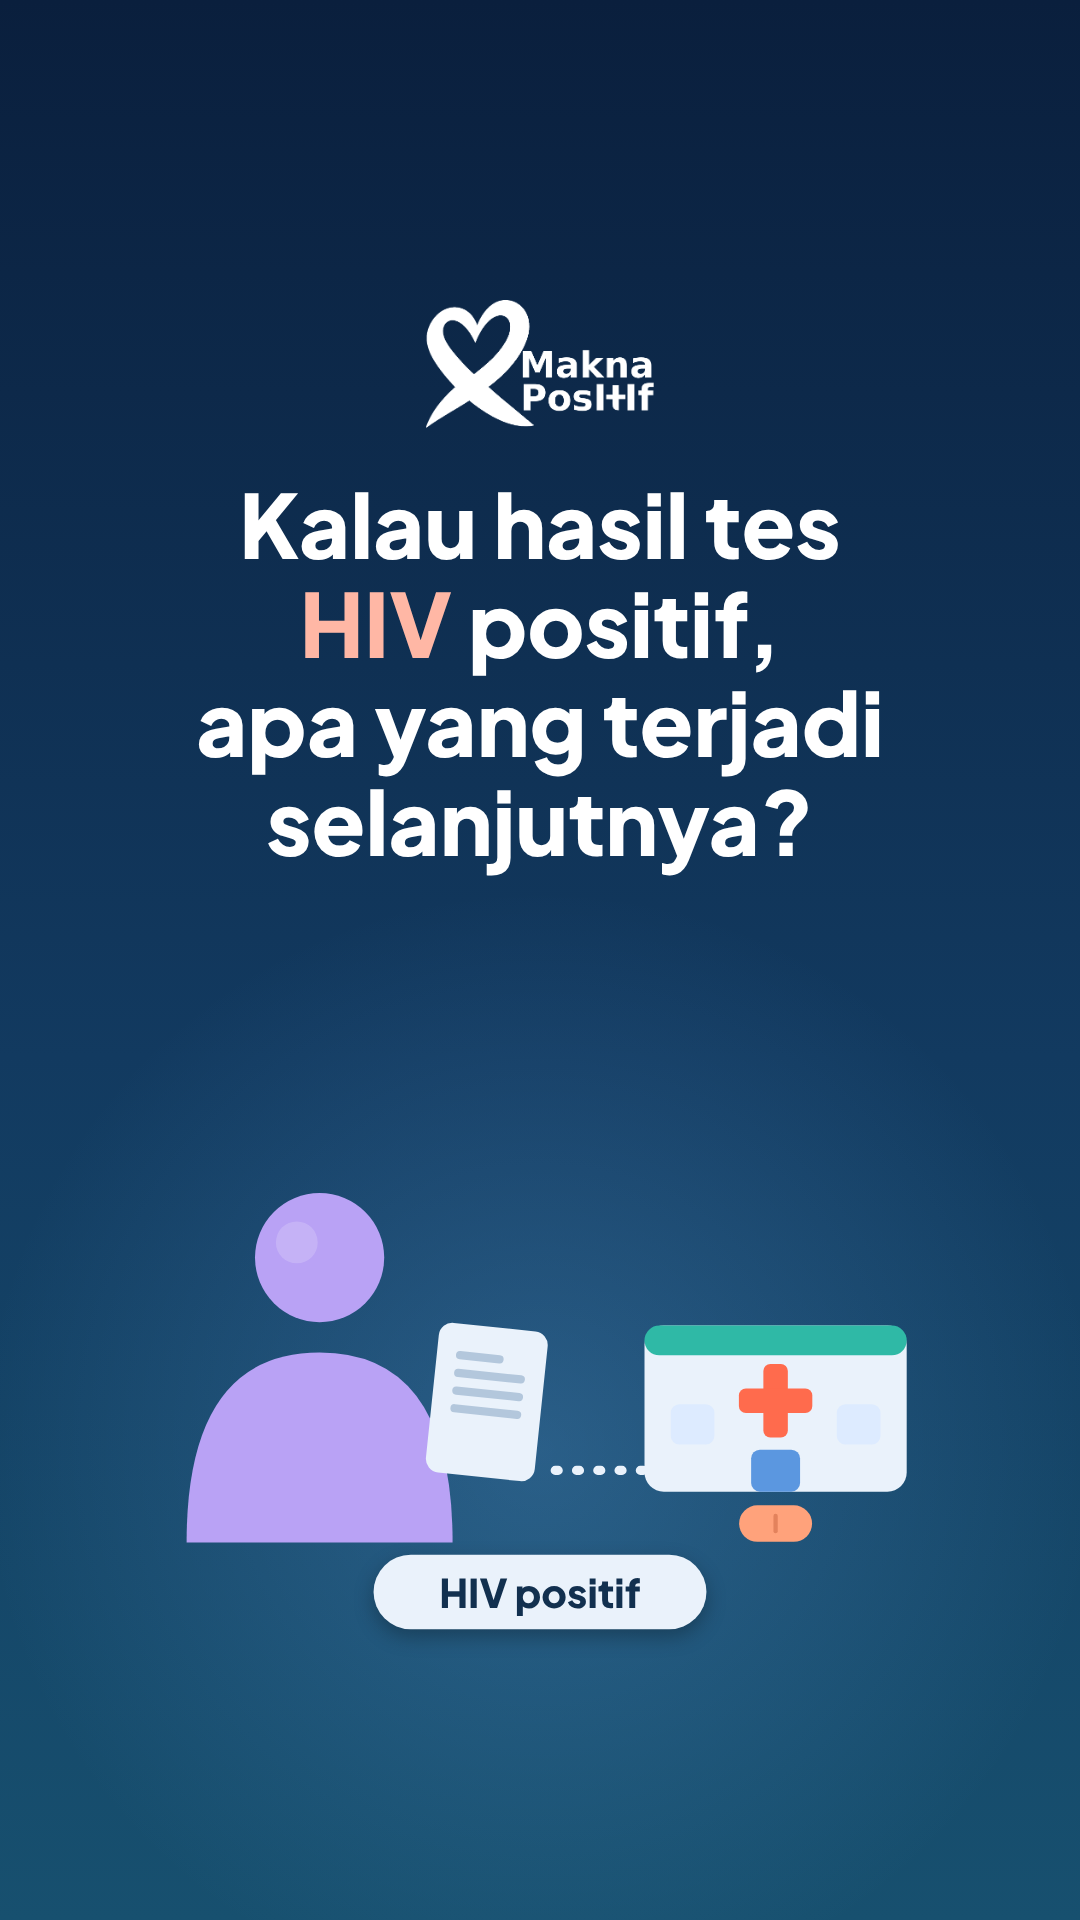
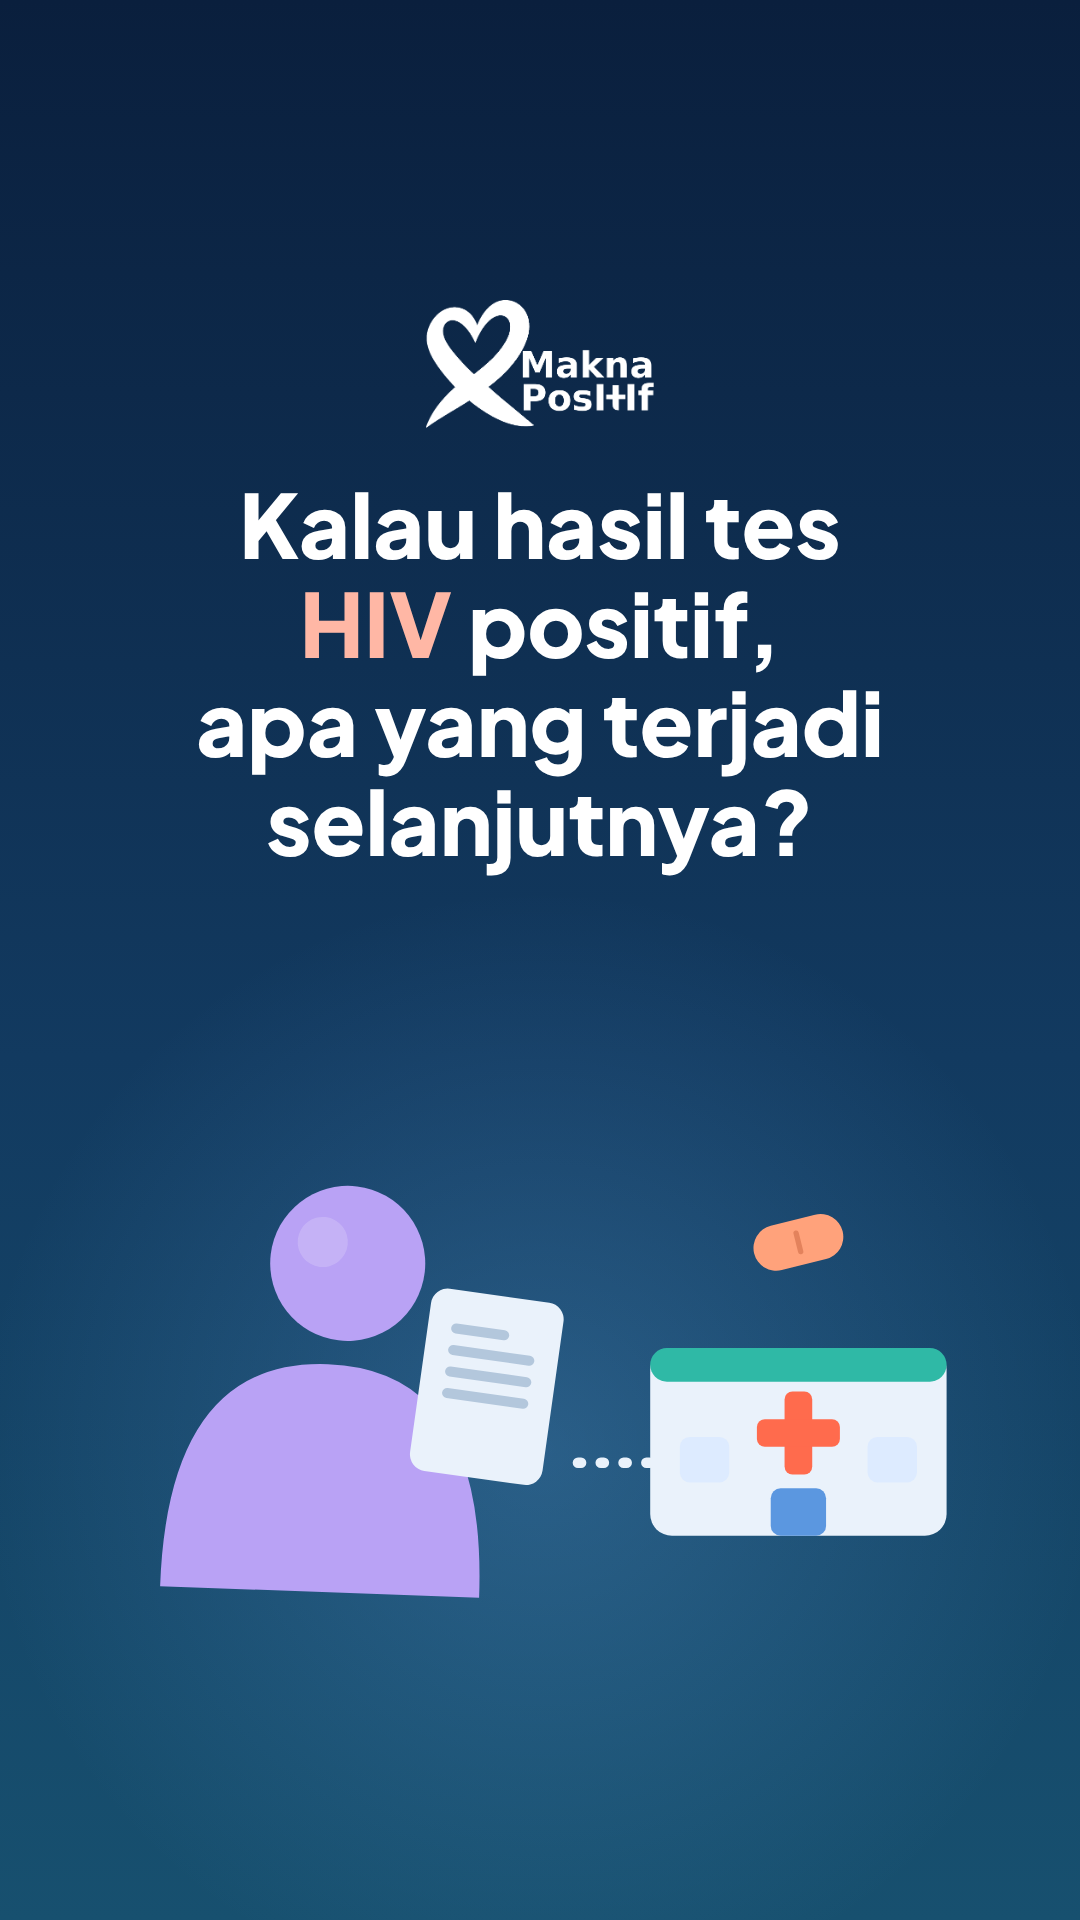
S2E2: revisi visual (adegan 7, 9, 12, pose, thumbnail)

Changed region(s): [[0.1528, 0.5938, 0.8861, 0.875], [0.1833, 0.7188, 0.2139, 0.75]]

diff --git a/src/s2e2/S2E2.tsx b/src/s2e2/S2E2.tsx
@@ -173,7 +173,9 @@ const pr = (t: number, a: number, b: number, e: (x: number) => number = out3) =>
 const SceneWrap: React.FC<{ i: number; t: number; children: React.ReactNode }> = ({ i, t, children }) => {
   const o = win(t, SCENE_T[i], SCENE_T[i + 1] + 0.25, 0.45);
   if (o < 0.005) return null;
-  return <g opacity={o}>{children}</g>;
+  const k = Math.max(0, Math.min(1, (t - SCENE_T[i]) / (SCENE_T[i + 1] - SCENE_T[i])));
+  const z = 1 + 0.04 * k;
+  return <g opacity={o} transform={`translate(540 960) scale(${z}) translate(-540 -960)`}>{children}</g>;
 };
 
 // ---- Adegan 1 (kalimat 1-3): kertas hasil tes sampai ke "kamu" (positif HIV); pertanyaan bermunculan; lalu jalur ke klinik tergambar (yang biasanya terjadi)
@@ -187,7 +189,7 @@ const Scene1: React.FC<{ t: number }> = ({ t }) => {
   const cl = pr(t, s3 + 1.0, s3 + 1.6, back);
   return (
     <>
-      <L.Person cx={360} cy={1010} s={2.2 * me} op={me} color={KAMU} />
+      <L.PersonPose cx={360} cy={1010} s={2.3 * me} op={me} color={KAMU} bow={pr(t, 0.9, 1.8, sine) - 1.6 * pr(t, s3 + 0.3, s3 + 1.3, sine)} />
       <L.Document cx={lerp(1000, 580, doc)} cy={lerp(760, 1030, doc)} s={0.95 * me} op={me} rot={lerp(-14, 6, doc)} />
       <L.SpeechBubble cx={700} cy={700} s={0.95 * bub} op={bub} text="positif HIV" w={400} tail="l" />
       {[[250, 700, 'l'], [440, 610, 'r'], [610, 720, 'r']].map(([x, y, tl], i) => (
@@ -264,10 +266,10 @@ const Scene4: React.FC<{ t: number }> = ({ t }) => {
   const vx = lerp(540, 330, pr(t, c1 - 0.2, c1 + 0.5, sine));
   return (
     <>
-      <Virus x={vx} y={960} r={140 * v * shrink} dim={dim} t={t} />
-      <L.Tablet cx={lerp(960, 640, tb)} cy={lerp(760, 940, tb)} s={1.0} rot={lerp(-35, 0, tb)} op={pr(t, s6 + 0.3, s6 + 0.6) * (1 - pr(t, s6 + 1.9, s6 + 2.3))} />
-      <circle cx={740} cy={960} r={86} fill="none" stroke="#EAF2FB" strokeWidth={10} strokeDasharray="14 18" strokeLinecap="round" opacity={0.8 * ghost} />
-      <L.CrossBadge cx={740} cy={960} s={0.8 * cross} op={cross} />
+      <Virus x={vx} y={1010} r={140 * v * shrink} dim={dim} t={t} />
+      <L.Tablet cx={lerp(980, 660, tb)} cy={lerp(700, 800, tb)} s={1.1} rot={lerp(-35, -18, tb)} op={pr(t, s6 + 0.3, s6 + 0.6) * (1 - pr(t, s6 + 1.4, s6 + 1.8))} />
+      <circle cx={740} cy={1010} r={86} fill="none" stroke="#EAF2FB" strokeWidth={10} strokeDasharray="14 18" strokeLinecap="round" opacity={0.8 * ghost} />
+      <L.CrossBadge cx={740} cy={1010} s={0.8 * cross} op={cross} />
     </>
   );
 };
@@ -303,39 +305,46 @@ const Scene6: React.FC<{ t: number }> = ({ t }) => {
   const hold = pr(t, c2 + 0.2, c2 + 0.8);
   return (
     <>
-      <L.Blister cx={330} cy={950} s={1.5 * bl} op={bl} taken={taken} />
-      <L.BloodTube cx={780} cy={980} s={1.3 * tube} op={tube} level={0.12} />
-      <L.CheckBadge cx={780} cy={1230} s={0.7 * ok} op={ok} />
-      <L.Person cx={230} cy={1000} s={2.0 * pA} op={pA} color={KAMU} />
-      <Virus x={280} y={1060} r={26 * pA} t={t} />
-      <L.Person cx={850} cy={1000} s={2.0 * pB} op={pB} color={PAS} />
-      <line x1={400} y1={900} x2={lerp(400, 680, arrow)} y2={900} stroke="#EAF2FB" strokeWidth={14} strokeLinecap="round" strokeDasharray="6 22" opacity={0.85 * arrow * (1 - 0.5 * hold)} />
-      <L.CrossBadge cx={540} cy={900} s={0.9 * cross} op={cross} />
-      <L.Blister cx={540} cy={1190} s={0.85 * bl2} op={bl2} taken={taken2} />
+      <L.Blister cx={310} cy={880} s={1.5 * bl} op={bl} taken={taken} />
+      <L.BloodTube cx={780} cy={900} s={1.3 * tube} op={tube} level={0.12} />
+      <L.CheckBadge cx={780} cy={1160} s={0.7 * ok} op={ok} />
+      <L.Person cx={230} cy={960} s={2.0 * pA} op={pA} color={KAMU} />
+      <Virus x={280} y={1020} r={26 * pA} t={t} />
+      <L.Person cx={850} cy={960} s={2.0 * pB} op={pB} color={PAS} />
+      <line x1={400} y1={860} x2={lerp(400, 680, arrow)} y2={860} stroke="#EAF2FB" strokeWidth={14} strokeLinecap="round" strokeDasharray="6 22" opacity={0.85 * arrow * (1 - 0.5 * hold)} />
+      <L.CrossBadge cx={540} cy={860} s={0.9 * cross} op={cross} />
+      <L.Blister cx={540} cy={1170} s={0.75 * bl2} op={bl2} taken={taken2} />
     </>
   );
 };
 
-// ---- Adegan 7 (kalimat 9): U sama dengan U (tidak terdeteksi = tidak menularkan)
+// ---- Adegan 7 (kalimat 9): U sama dengan U. Kiri: viral load tidak terdeteksi (tabung darah hampir kosong); kanan: pasangan terlindung (tidak tertular)
 const Scene7: React.FC<{ t: number }> = ({ t }) => {
   const s9 = T(9);
-  const u1 = pr(t, s9, s9 + 0.6, back);
-  const eq = pr(t, s9 + 0.8, s9 + 1.3, back);
-  const u2 = pr(t, s9 + 1.2, s9 + 1.8, back);
+  const u1 = pr(t, s9, s9 + 0.5, back);
+  const tube = pr(t, s9 + 0.3, s9 + 0.9, back);
+  const eq = pr(t, s9 + 0.7, s9 + 1.1, back);
+  const u2 = pr(t, s9 + 1.0, s9 + 1.5, back);
+  const pas = pr(t, s9 + 1.2, s9 + 1.8, back);
+  const sh = pr(t, s9 + 1.5, s9 + 2.1, back);
   const g = (cx: number, k: number) => (
-    <g opacity={k} transform={`translate(${cx} 960) scale(${k})`}>
-      <circle r={150} fill="#72E3D3" />
-      <text textAnchor="middle" y={62} fontFamily={FONT} fontWeight={800} fontSize={190} fill="#173A5E">U</text>
+    <g opacity={k} transform={`translate(${cx} 800) scale(${k})`}>
+      <circle r={140} fill="#72E3D3" />
+      <text textAnchor="middle" y={58} fontFamily={FONT} fontWeight={800} fontSize={180} fill="#173A5E">U</text>
     </g>
   );
   return (
     <>
       {g(250, u1)}
-      <g opacity={eq} transform={`translate(540 960) scale(${eq})`}>
+      <g opacity={eq} transform={`translate(540 800) scale(${eq})`}>
         <rect x={-50} y={-34} width={100} height={20} rx={10} fill="#EAF2FB" />
         <rect x={-50} y={14} width={100} height={20} rx={10} fill="#EAF2FB" />
       </g>
       {g(830, u2)}
+      <L.BloodTube cx={250} cy={1150} s={1.2 * tube} op={tube} level={0.12} />
+      <Virus x={330} y={1190} r={20 * tube} t={t} />
+      <L.Person cx={800} cy={1130} s={1.7 * pas} op={pas} color={PAS} />
+      <L.Shield cx={870} cy={1160} s={0.95 * sh} op={sh} />
     </>
   );
 };
@@ -362,22 +371,25 @@ const Scene8: React.FC<{ t: number }> = ({ t }) => {
   );
 };
 
-// ---- Adegan 9 (kalimat 11): status dirahasiakan: dokumen masuk gembok yang menutup; prinsip layanan tes (alat tes + centang)
+// ---- Adegan 9 (kalimat 11): status dirahasiakan: kertas hasil tes digembok (gembok jatuh dan menutup), pengamat tidak boleh melihat; lalu prinsip layanan tes (alat tes + centang)
 const Scene9: React.FC<{ t: number }> = ({ t }) => {
   const s11 = T(11), c1 = CL(11, 1);
   const me = pr(t, s11 - 0.2, s11 + 0.4, back);
-  const doc = pr(t, s11 + 0.2, s11 + 1.2, sine);
-  const lk = pr(t, s11 + 0.2, s11 + 0.7, back);
-  const shut = pr(t, s11 + 1.1, s11 + 1.6);
+  const doc = pr(t, s11 + 0.1, s11 + 0.7, back);
+  const drop = pr(t, s11 + 0.7, s11 + 1.3, in3);
+  const obs = pr(t, s11 + 0.4, s11 + 0.9, back) * (1 - pr(t, c1 - 0.2, c1 + 0.3));
+  const cross = pr(t, s11 + 1.3, s11 + 1.8, back) * (1 - pr(t, c1 - 0.2, c1 + 0.3));
   const kit = pr(t, c1, c1 + 0.7, back);
   const ok = pr(t, c1 + 0.9, c1 + 1.5, back);
   return (
     <>
-      <L.Person cx={260} cy={1020} s={2.0 * me} op={me} color={KAMU} />
-      <L.Document cx={lerp(380, 640, doc)} cy={lerp(1000, 900, doc)} s={0.9 * (1 - 0.35 * doc)} op={me * (1 - 0.8 * shut)} rot={lerp(8, 0, doc)} />
-      <L.Lock cx={640} cy={900} s={1.5 * lk} op={lk} open={shut < 0.5} />
-      <L.TestKit cx={900} cy={1040} s={0.85 * kit} op={kit} lines={1} />
-      <L.CheckBadge cx={900} cy={780} s={0.55 * ok} op={ok} />
+      <L.Person cx={230} cy={1020} s={2.0 * me} op={me} color={KAMU} />
+      <L.Document cx={520} cy={930} s={1.7 * doc} op={doc} rot={-4} />
+      <L.Lock cx={590} cy={lerp(600, 1000, drop)} s={1.4} op={pr(t, s11 + 0.6, s11 + 0.9)} open={drop < 0.95} />
+      <L.Group cx={880} cy={1050} s={0.95 * obs} op={obs} n={3} />
+      <L.CrossBadge cx={880} cy={830} s={0.6 * cross} op={cross} />
+      <L.TestKit cx={880} cy={1010} s={0.9 * kit} op={kit} lines={1} />
+      <L.CheckBadge cx={880} cy={730} s={0.55 * ok} op={ok} />
     </>
   );
 };
@@ -397,8 +409,7 @@ const Scene10: React.FC<{ t: number }> = ({ t }) => {
       <L.Group cx={lerp(260, 400, near)} cy={1040} s={1.1 * gr * (1 - hug)} op={gr * (1 - hug)} n={3} />
       <L.SpeechBubble cx={330} cy={760} s={0.9 * bub} op={bub} tail="r" w={240} />
       <L.CrossBadge cx={330} cy={760} s={0.8 * cross} op={cross} />
-      <L.Hug cx={540} cy={1010} s={2.1 * hug} op={hug} />
-      <L.Heart cx={540} cy={760} s={0.7 * hug} op={hug} color="#7ED6A8" />
+      <L.Embrace cx={540} cy={1010} s={2.2 * hug} op={hug} colorB="#8FBDF7" />
     </>
   );
 };
@@ -425,16 +436,21 @@ const Scene11: React.FC<{ t: number }> = ({ t }) => {
   );
 };
 
-// ---- Adegan 12 (kalimat 14): hasil positif bukan akhir: orang terus berjalan di jalan yang tidak berhenti
+// ---- Adegan 12 (kalimat 14): hasil positif bukan akhir: orang berjalan di jalan yang terus ke depan, matahari terbit menyambut, lengan terangkat lega
 const Scene12: React.FC<{ t: number }> = ({ t }) => {
   const s14 = T(14);
   const road = pr(t, s14 - 0.2, s14 + 0.5, back);
-  const x = lerp(160, 940, pr(t, s14 + 0.2, s14 + 2.2, sine));
+  const x = lerp(160, 560, pr(t, s14 + 0.1, s14 + 2.2, sine));
+  const sun = pr(t, s14 + 0.5, s14 + 2.2, sine);
   const sc = pr(t, s14 - 0.2, s14 + 0.4, back);
+  const bob = Math.abs(Math.sin(Math.max(0, t - s14) * 6)) * 8 * (1 - pr(t, s14 + 2.0, s14 + 2.4));
+  const lift = pr(t, s14 + 1.8, s14 + 2.5, back);
   return (
     <>
-      <L.Road cx={540} cy={1100} s={1.0 * road} op={road} w={1000} h={220} />
-      <L.Person cx={x} cy={1010} s={1.7 * sc} op={sc} color={KAMU} />
+      <defs><clipPath id="hz12"><rect x={0} y={0} width={1080} height={1095} /></clipPath></defs>
+      <g clipPath="url(#hz12)"><L.Sun cx={780} cy={lerp(1190, 760, sun)} s={1.7} op={pr(t, s14 + 0.3, s14 + 0.7)} /></g>
+      <L.Road cx={540} cy={1200} s={1.0 * road} op={road} w={1000} h={220} />
+      <L.PersonPose cx={x} cy={1100 - bob} s={1.8 * sc} op={sc} color={KAMU} bow={-lift} lift={lift} />
     </>
   );
 };
@@ -450,11 +466,11 @@ const Scene13: React.FC<{ t: number }> = ({ t }) => {
   const hug = pr(t, c1 + 1.2, c1 + 1.9, back);
   return (
     <>
-      <L.Person cx={lerp(540, 600, near)} cy={1020} s={2.1 * me * (1 - hug)} op={me * (1 - hug)} color={KAMU} />
+      <L.PersonPose cx={lerp(540, 600, near)} cy={1020} s={2.1 * me * (1 - hug)} op={me * (1 - hug)} color={KAMU} bow={lerp(0.5, -1, pr(t, c1 - 0.2, c1 + 1.2, sine))} lift={0} />
       <L.Clinic cx={820} cy={800} s={1.1 * cl} op={cl} />
       <L.Tablet cx={lerp(780, 640, tb)} cy={lerp(900, 930, tb)} s={0.7} op={pr(t, s15 + 0.6, s15 + 0.9) * (1 - pr(t, c1 - 0.2, c1 + 0.2))} />
       <L.Group cx={lerp(120, 380, near)} cy={1040} s={1.1 * gr * (1 - hug)} op={gr * (1 - hug)} n={3} />
-      <L.Hug cx={540} cy={1010} s={2.1 * hug} op={hug} />
+      <L.Embrace cx={540} cy={1010} s={2.2 * hug} op={hug} colorB="#8FBDF7" />
     </>
   );
 };
@@ -627,7 +643,7 @@ export const S2E2Full: React.FC = () => {
           </svg>
           <Pills t={t} />
           <LegendBox t={t} a={T(4) + 0.2} b={T(4) + 3.0} items={[['#FFA27B', 'Obat ARV']]} />
-          <LegendBox t={t} a={T(5) + 0.3} b={T(6) - 0.2} items={[['#FF9C85', 'Virus HIV'], ['#F0616A', 'Sampel darah']]} />
+          <LegendBox t={t} a={T(5) + 0.3} b={T(6) - 0.2} items={[['#FF9C85', 'Virus HIV']]} />
           <LegendBox t={t} a={T(6) + 0.2} b={T(7) - 0.2} items={[['#FF9C85', 'Virus HIV'], ['#FFA27B', 'Obat ARV']]} />
           <LegendBox t={t} a={CL(7, 1) + 0.3} b={T(8) - 0.2} items={[['#F4D77E', 'Jumlah virus'], ['#FF6B4D', 'Batas deteksi']]} />
           <LegendBox t={t} a={CL(8, 1) + 0.3} b={CL(8, 2) - 0.2} items={[['#FF9C85', 'Virus HIV']]} />

diff --git a/src/thumb/Thumb.tsx b/src/thumb/Thumb.tsx
@@ -3,7 +3,7 @@ import { AbsoluteFill, Img, continueRender, delayRender, staticFile } from 'remo
 import { FONT } from '../Board';
 import { FlatCell, FlatVirus, Figure, SHAPE_COL } from '../shared/shapes';
 import { Glass, VDot, WATER_CLEAR } from '../ep5/shapes5';
-import { BodyLens, Calendar, Capsule, Clock, CrossBadge, Group, LineChart, Person, TestKit, Document, Clinic, Tablet, Heart, Mosquito, Seed, Home } from '../shared/library';
+import { BodyLens, Calendar, Capsule, Clock, CrossBadge, Group, LineChart, Person, TestKit, Document, Clinic, Tablet, PersonPose, Heart, Mosquito, Seed, Home } from '../shared/library';
 
 // Thumbnail 9:16 (1080x1920) untuk "Apa bedanya HIV dan AIDS?". Tokoh dari src/shared/shapes.tsx, logo asli.
 export const THUMB_W = 1080;
@@ -493,13 +493,12 @@ export const ThumbS2E2: React.FC = () => (
     glowY={1450}
   >
     <Svg>
-      <Person cx={250} cy={1500} s={2.5} color="#B9A2F5" />
-      <Document cx={470} cy={1540} s={0.9} rot={6} />
-      <line x1={560} y1={1630} x2={690} y2={1630} stroke="#EAF2FB" strokeWidth={12} strokeLinecap="round" strokeDasharray="4 24" />
-      <Clinic cx={850} cy={1520} s={1.15} />
-      <Tablet cx={850} cy={1700} s={0.8} />
+      <PersonPose cx={250} cy={1520} s={3.0} color="#B9A2F5" bow={0.3} />
+      <Document cx={470} cy={1520} s={1.1} rot={8} />
+      <line x1={590} y1={1620} x2={700} y2={1620} stroke="#EAF2FB" strokeWidth={14} strokeLinecap="round" strokeDasharray="4 26" />
+      <Clinic cx={880} cy={1560} s={1.3} />
+      <Tablet cx={880} cy={1330} s={1.0} rot={-14} />
     </Svg>
-    <Pill cx={540} cy={1790} text="HIV positif" bg="#EAF2FB" fg="#12304F" size={52} />
   </ThumbFrame>
 );
 

diff --git a/src/shared/library.tsx b/src/shared/library.tsx
@@ -960,7 +960,7 @@ export const PersonPose: React.FC<P & { color?: string; bow?: number; lift?: num
     <G {...p}>
       {lift > 0.01 &&
         [-1, 1].map((d) => (
-          <rect key={d} x={-11} y={-80 * lift} width={22} height={90 * lift + 10} rx={11} fill={color} transform={`translate(${d * 62} 40) rotate(${d * (14 + 30 * lift)} 0 ${60 * lift})`} />
+          <rect key={d} x={-11} y={-110 * lift} width={22} height={110 * lift + 14} rx={11} fill={color} transform={`translate(${d * 56} 30) rotate(${d * (18 + 22 * lift)})`} />
         ))}
       <g transform={`rotate(${b * 7} 0 90)`}>
         <path d="M -70 90 Q -70 -10 0 -10 Q 70 -10 70 90 Z" fill={color} />

diff --git a/README.md b/README.md
@@ -278,7 +278,7 @@ Tanpa storyboard. Kode: `src/s2e1/` (`timeline.ts`, `holds.json`, `sync.ts`, `se
 
 ## Episode S2E2: "Kalau hasil tes HIV positif, apa yang terjadi selanjutnya?"
 
-Tanpa storyboard. Kode: `src/s2e2/` (`timeline.ts`, `holds.json`, `sync.ts`, `segments.json` dari `align_syl.py`; `S2E2.tsx` = 13 adegan animasi + subtitle + penutup). Composition `S2E2Full` (2045 frame, 30 fps; suara 58,67 dtk + jeda, total 68,14 dtk termasuk ekor 8 dtk). Render: `bash scripts/render_s2e2.sh` -> `out/S2E2.mp4`. Objek library baru: `Coin`. Tokoh "kamu" = `Person` lavender, pasangan = hijau. Legenda: adegan 2 (ARV), 3 (virus + sampel darah), 4 (virus + ARV), 5 (grafik), 6 klausa 2 (virus). Cover: `media/cover/S2E2.png` (`ThumbS2E2`).
+Tanpa storyboard. Kode: `src/s2e2/` (`timeline.ts`, `holds.json`, `sync.ts`, `segments.json` dari `align_syl.py`; `S2E2.tsx` = 13 adegan animasi + subtitle + penutup). Composition `S2E2Full` (2045 frame, 30 fps; suara 58,67 dtk + jeda, total 68,14 dtk termasuk ekor 8 dtk). Render: `bash scripts/render_s2e2.sh` -> `out/S2E2.mp4`. Objek library baru: `Coin`, `PersonPose`. Revisi visual: adegan 7 (tabung darah + pasangan berperisai), 9 (gembok jatuh menutup dokumen), 12 (matahari terbit, lengan terangkat), pose tertunduk/lega di adegan 1 dan 13, rangkulan memakai `Embrace`, kamera mendorong pelan per adegan. Tokoh "kamu" = `Person` lavender, pasangan = hijau. Legenda: adegan 2 (ARV), 3 (virus + sampel darah), 4 (virus + ARV), 5 (grafik), 6 klausa 2 (virus). Cover: `media/cover/S2E2.png` (`ThumbS2E2`).
 
 ### Penyelaras suku kata (`scripts/align_syl.py`)
 
